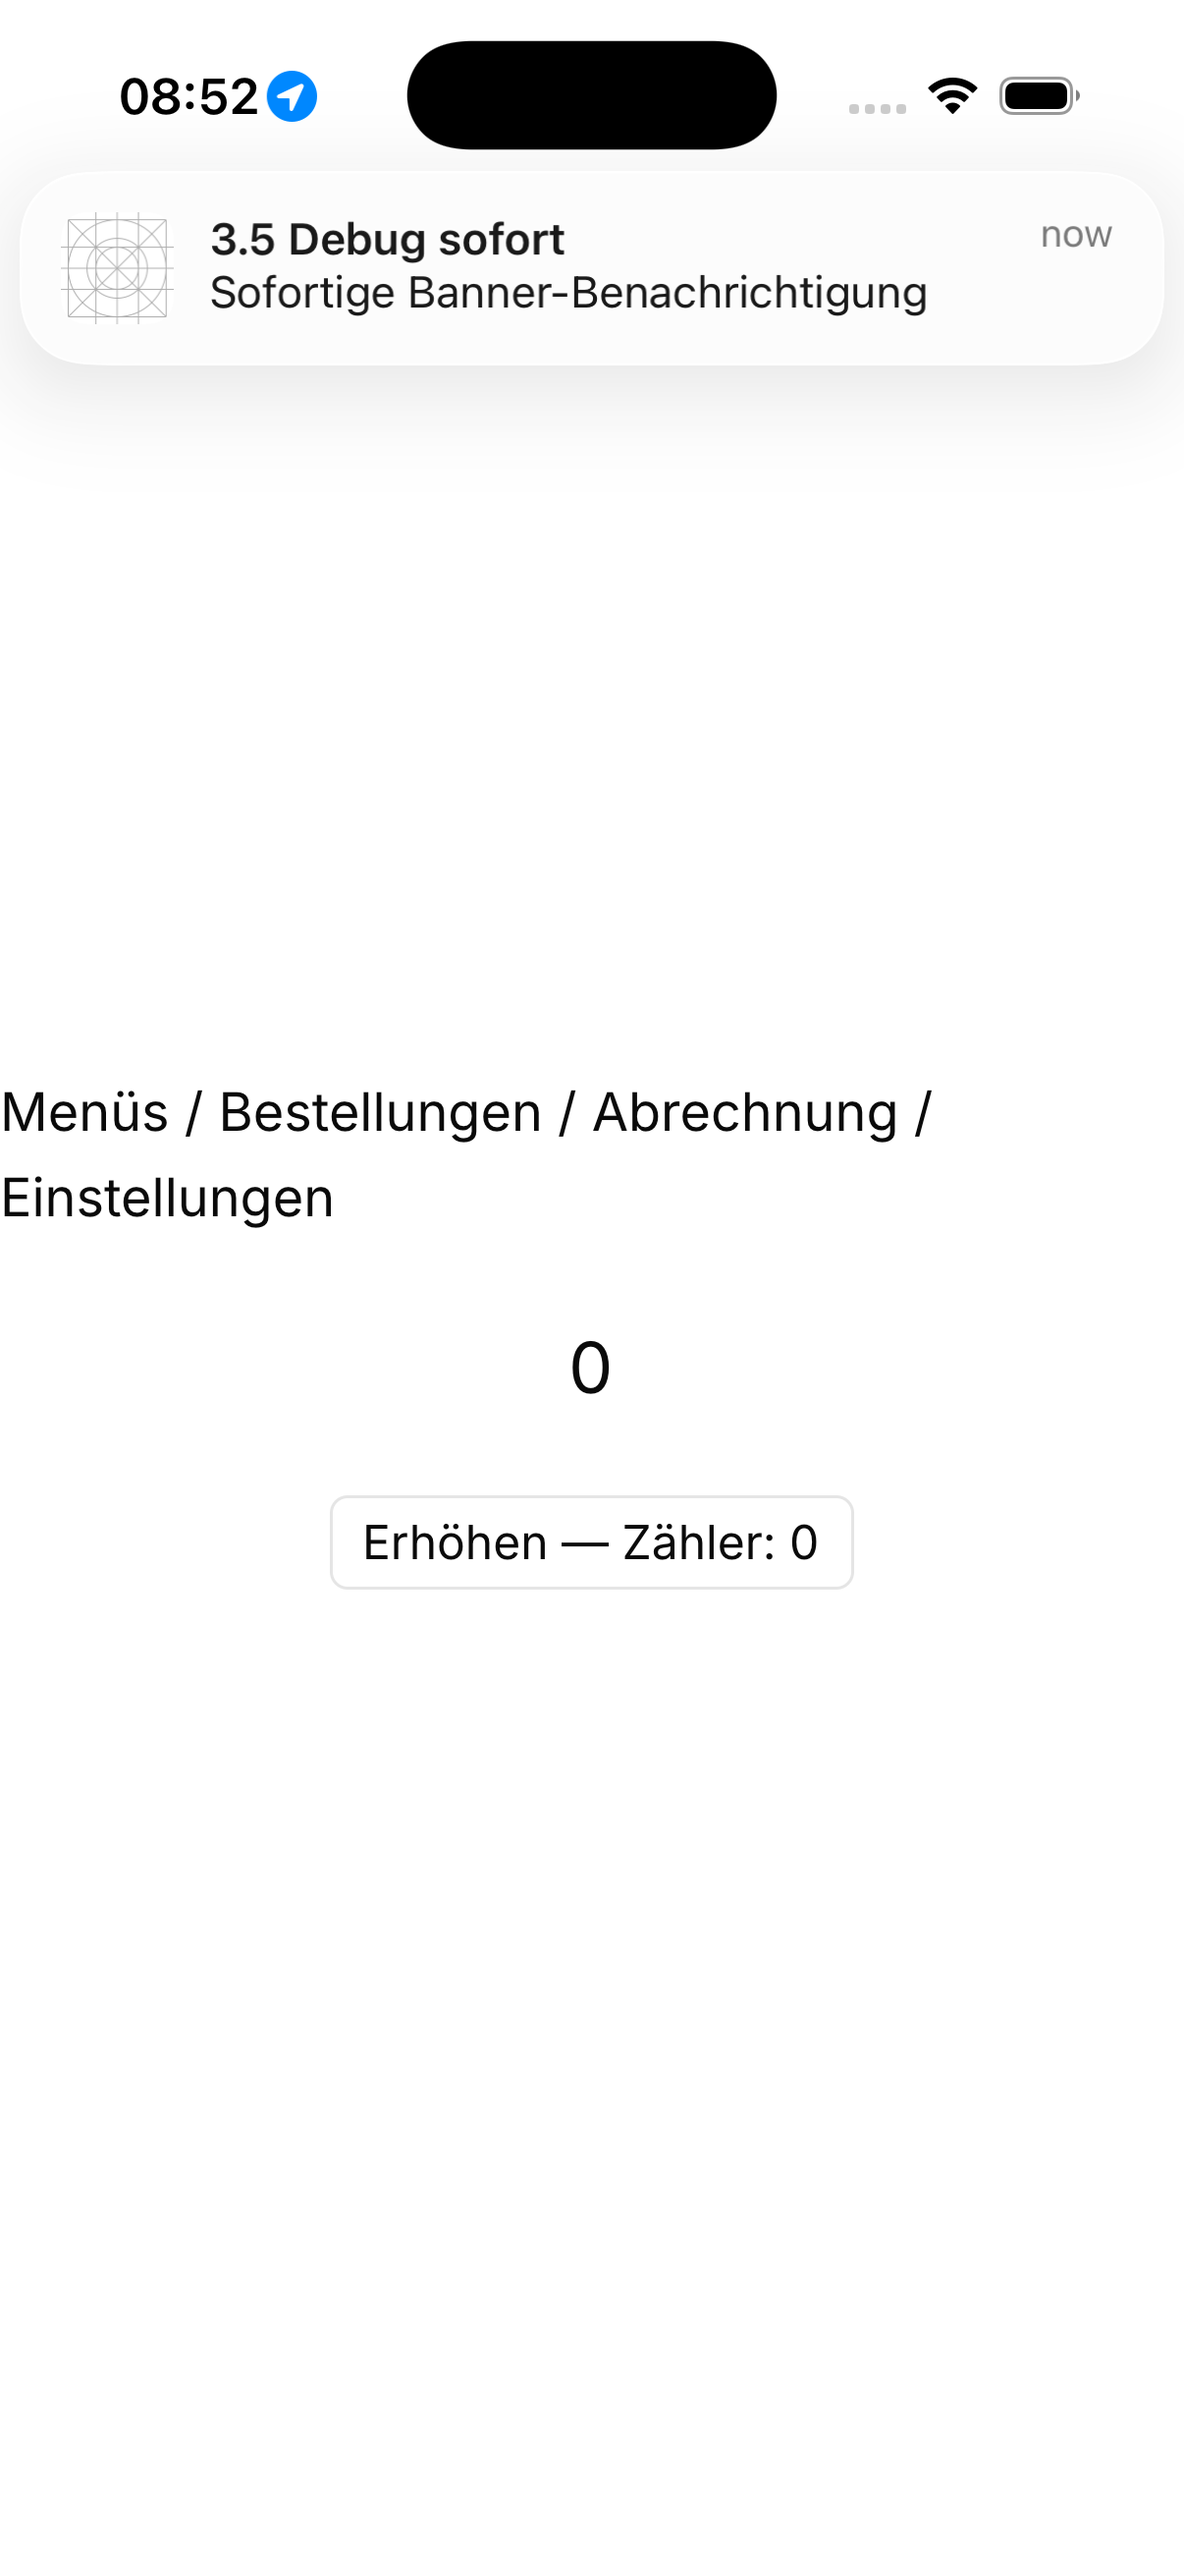
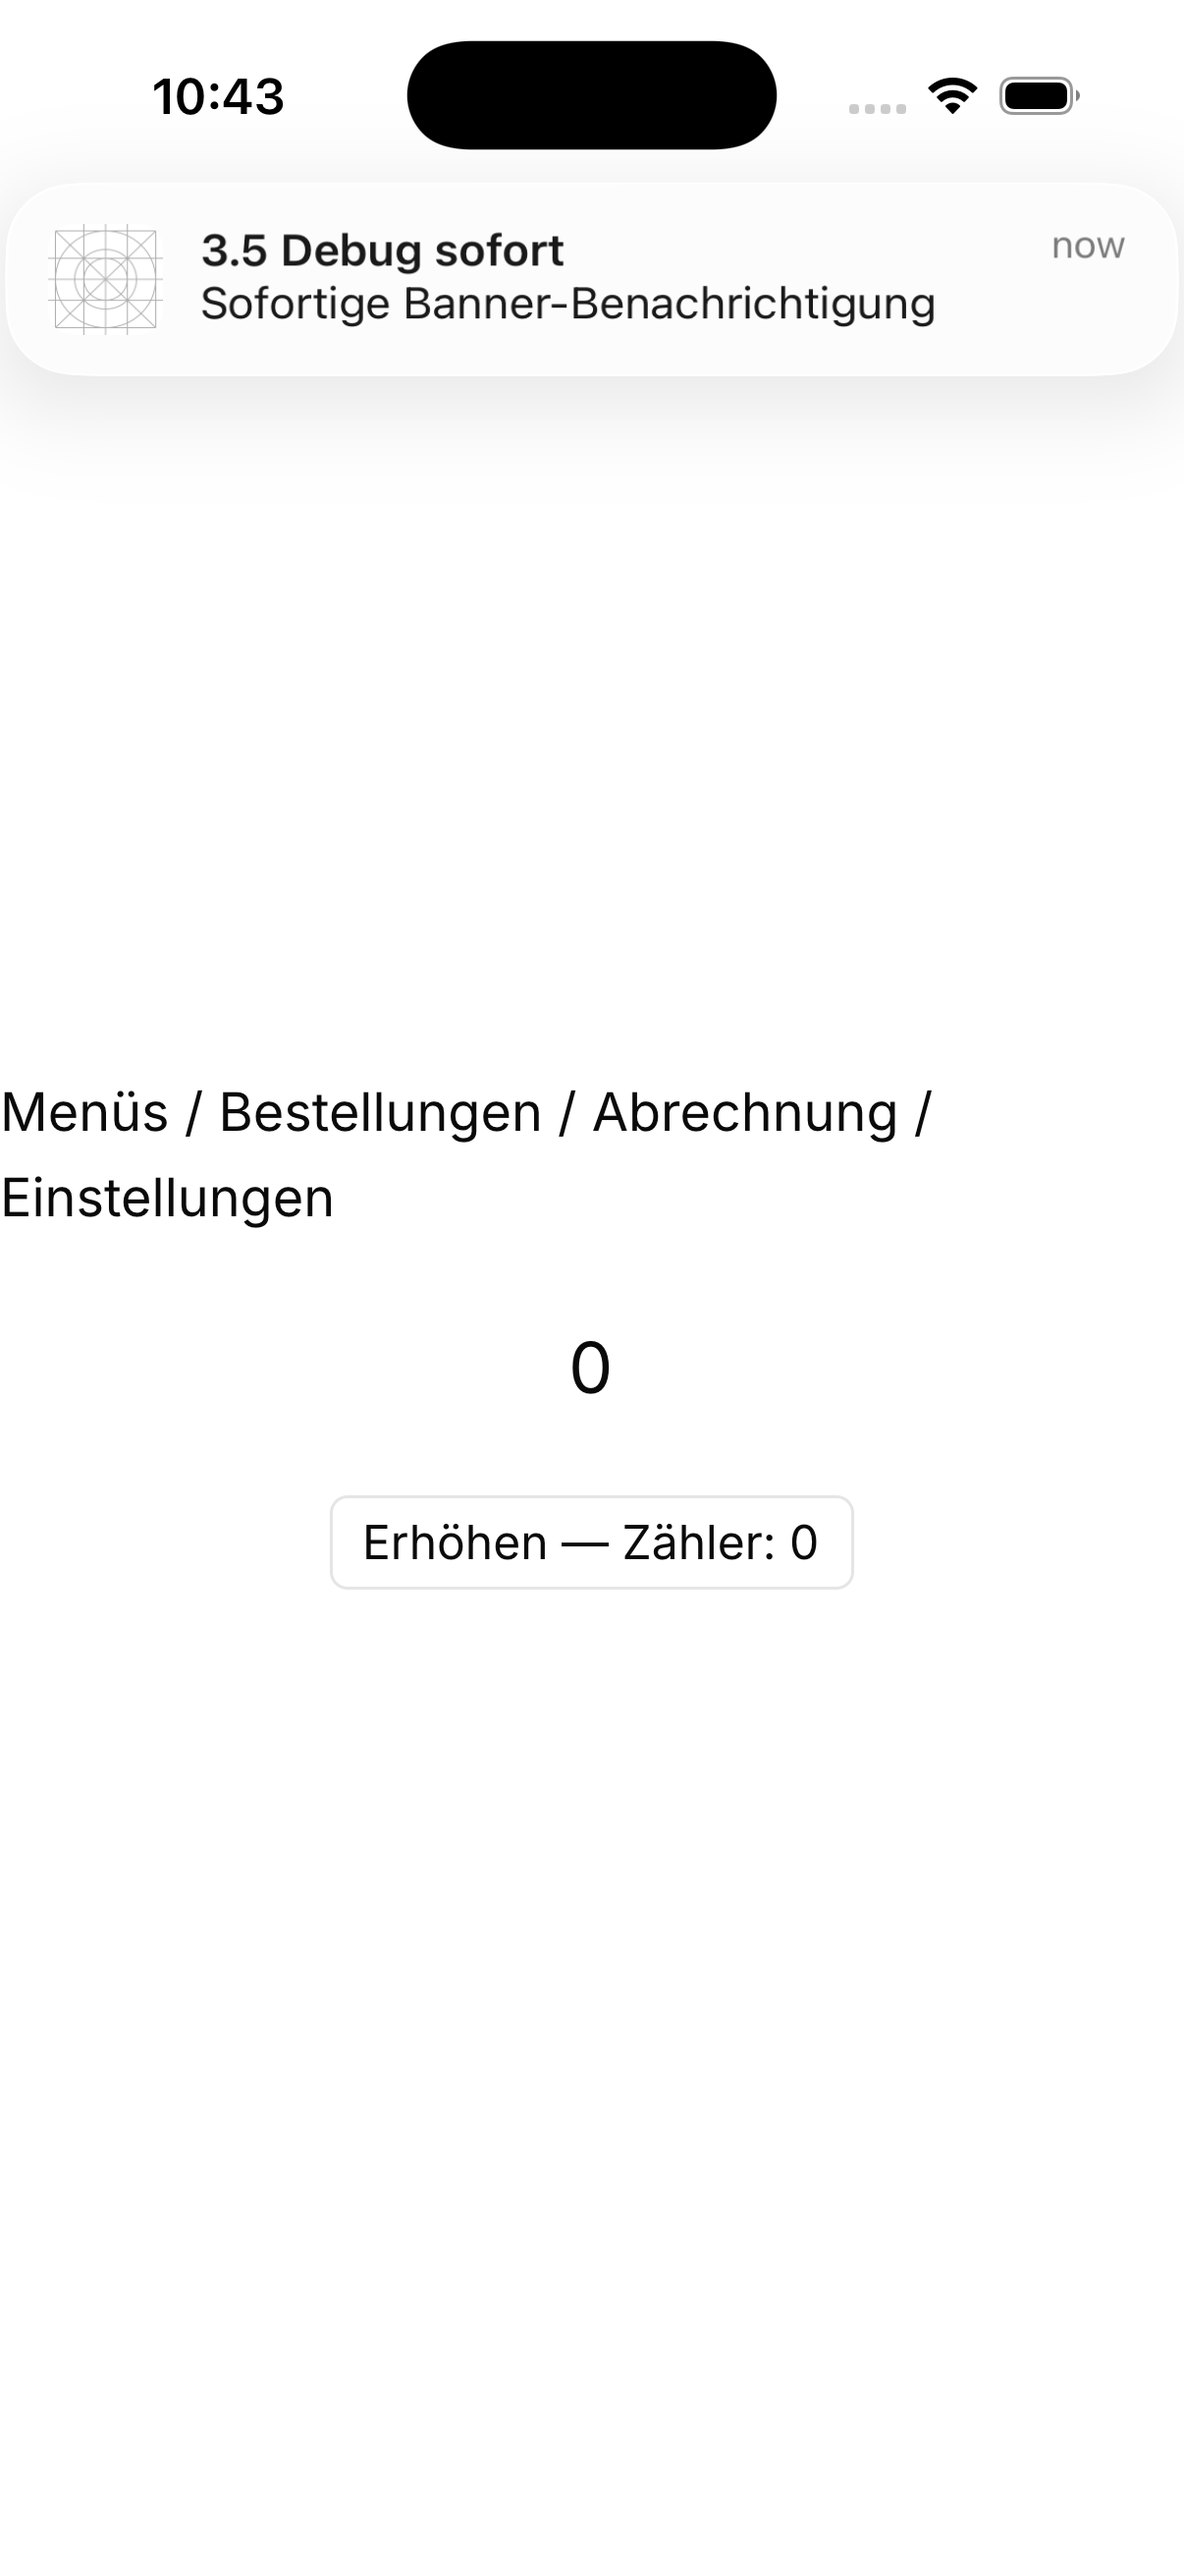
fix(ui): simulator-only ad-hoc signing, pending-slot fixes, keychain verified on fresh install (task 3.5)
- SDK-conditional signing: ad-hoc only for iphonesimulator; device builds keep
  CODE_SIGNING_ALLOWED[sdk=iphoneos*]=NO (release signing is a human step)
- Pending::cancel(id) on all begin-then-reject paths; free(out) on invalid
  UTF-8 in get_credential; @req REQ-PLT-06 test for the pending-slot leak
- Fresh-install proof: SecItemAdd round trip match=true under the empty
  entitlements ad-hoc build, so Host/SnackPilot.entitlements and
  CODE_SIGN_ENTITLEMENTS are dropped (branch 3a)
- New XCUITest NotificationPermissionTests taps Allow on the springboard
  notification dialog for unattended evidence runs
- Refreshed evidence: a-exercise-log.txt, b/c banners (granted=true,
  match=true, exercise 34 ms)

Changed region(s): [[0.0307, 0.0309, 0.7977, 0.1236], [0.8897, 0.0927, 0.9511, 0.1236]]

diff --git a/src/ui/ios/UITests/NotificationPermissionTests.swift b/src/ui/ios/UITests/NotificationPermissionTests.swift
@@ -1,0 +1,31 @@
+import XCTest
+
+// Grants the notification permission on a clean simulator (task 3.5 evidence
+// runs). Unlike SpikeTapTests.dismissSystemAlerts — which answers "Don't
+// Allow" first to keep the counter tests deterministic — this test must tap
+// "Allow" so the UN authorization request resolves granted and the
+// -DebugPlatformExercise banner checks pass unattended.
+
+final class NotificationPermissionTests: XCTestCase {
+    func testAllowNotificationPermission() {
+        let springboard = XCUIApplication(bundleIdentifier: "com.apple.springboard")
+        let app = XCUIApplication()
+        // The host only calls UNUserNotificationCenter.requestAuthorization
+        // from the debug exercise, so launch with that flag to raise the
+        // springboard dialog.
+        app.launchArguments = ["-DebugPlatformExercise", "YES"]
+        app.launch()
+
+        // The springboard hosts the UN authorization dialog; the in-app alert
+        // is the fallback for older runtimes.
+        let allow = springboard.buttons["Allow"]
+        if !allow.waitForExistence(timeout: 15) {
+            let inApp = app.alerts.buttons["Allow"]
+            XCTAssertTrue(inApp.waitForExistence(timeout: 5),
+                          "notification permission dialog did not appear")
+            inApp.tap()
+            return
+        }
+        allow.tap()
+    }
+}
